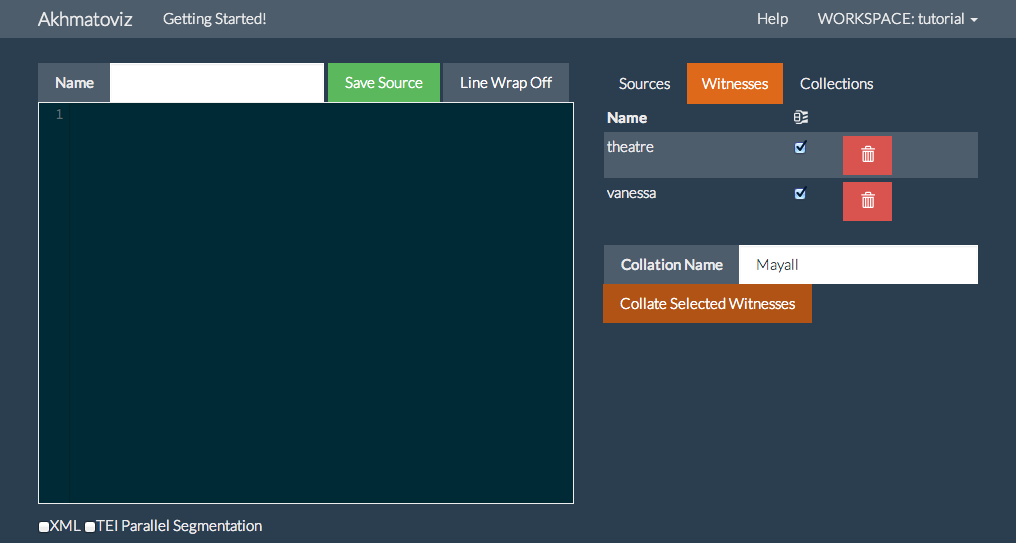
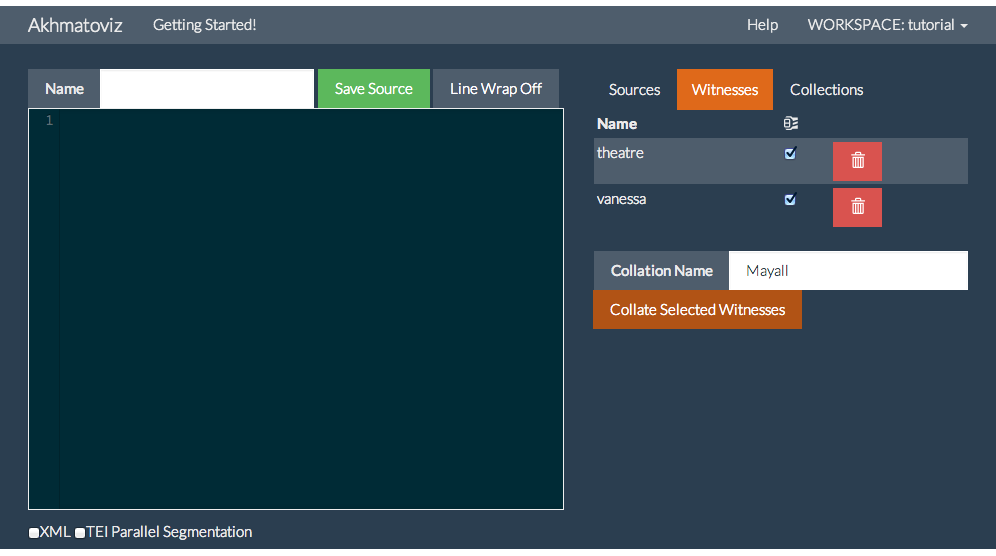
resized getting started carousel pics

diff --git a/dev/_/components/js/sourceView.js b/dev/_/components/js/sourceView.js
@@ -59,10 +59,9 @@ AV.SourceView = Backbone.View.extend({
 		    // if the parallel segmentation is checked, create appopriate witnesses and collections
 		    if (this.parallelSeg)  {
 			    var data = {setName: modelToSubmit.get('name'), teiSourceId: d};
-			    json_post(AV.URL('import'),data,
-                          _.bind(function() {
+			    json_post(AV.URL('import'),data,function(){
                               setTimeout(Backbone.trigger('source:TEI'), 1000);
-                          }, this));
+                          });
 		    }
 		    this.collection.fetch();
 		}, this));

diff --git a/dev/_/components/js/sourceCollectionView.js b/dev/_/components/js/sourceCollectionView.js
@@ -11,6 +11,7 @@ AV.SourceCollectionView = Backbone.View.extend({
     initialize: function() {
 	    //listen for sync events in the source collection
         this.listenTo(this.collection, 'sync', this.render);
+        this.listenTo(Backbone, 'source:TEI', this.refresh);
     },
     events: {
 	    "click #deleteSourceButton": "delete",

diff --git a/dev/_/components/js/init.js b/dev/_/components/js/init.js
@@ -23,6 +23,7 @@ function json_post(url,data,callback,flag){
             console.log(e);
         }
 	});
+	console.log('json_post fired ' + url); 
 }
 //From http://www.quirksmode.org/js/cookies.html
 function createCookie(name,value,days) {
